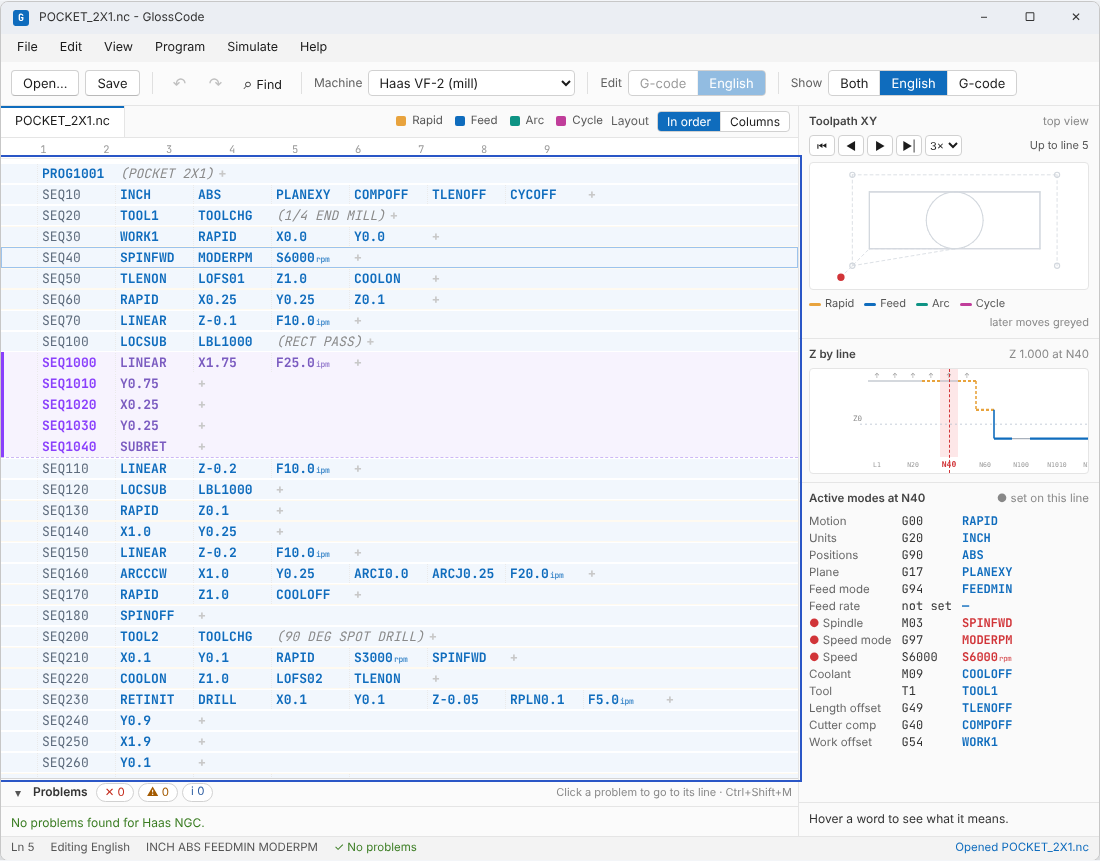
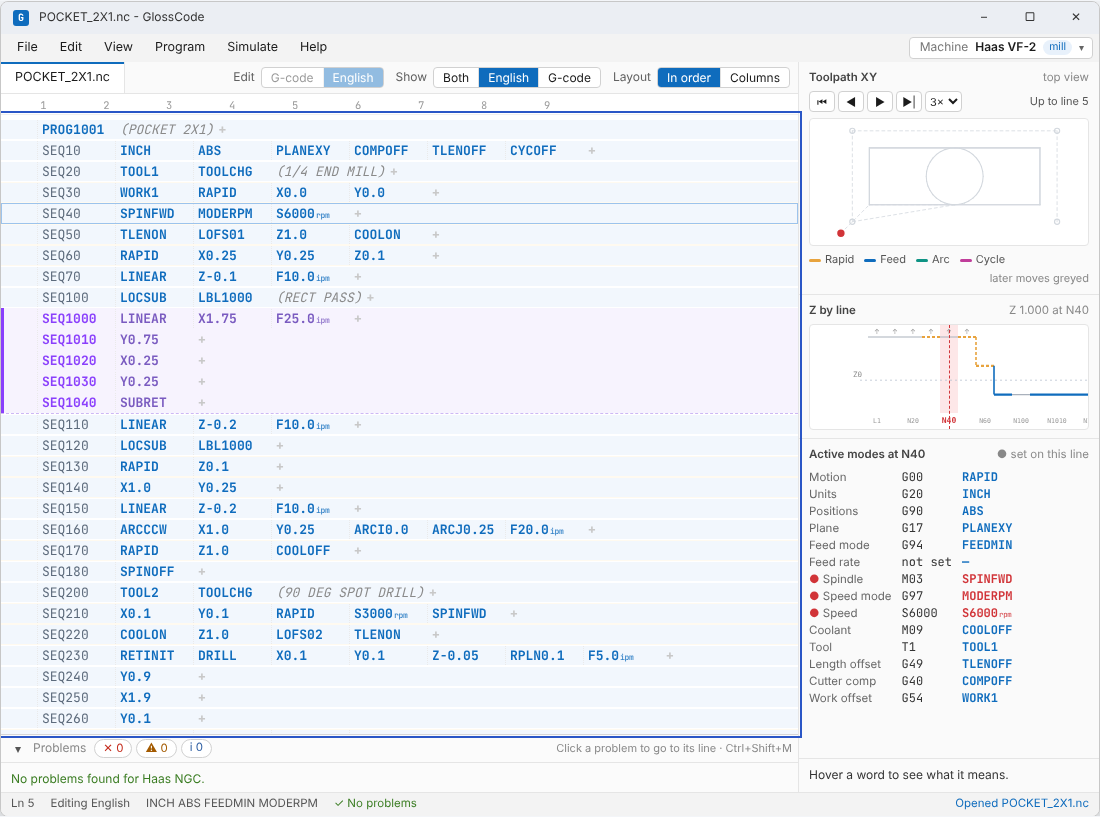
Retake the screenshots without the toolbar, and add machine picker shots
All ten README screenshots now show the current mockup: menus only,
the Edit/Show toggles in the tab row, and the machine picker in the
menu bar. Two new shots show the machine menu and the profiles dialog.

Claude-Session: https://claude.ai/code/session_01JRuiwy3MSKLR5SNq6VsEL3

diff --git a/README.md b/README.md
@@ -32,6 +32,10 @@ The English words come from a dictionary of consistent abbreviations ([`data/gco
 |---|---|---|
 | ![Problems panel](docs/images/problems.png) | ![Lathe checks](docs/images/lathe-checks.png) | ![Okuma mill](docs/images/okuma-mill.png) |
 
+| Machine picker | Machine profiles | Open dialog |
+|---|---|---|
+| ![Machine picker](docs/images/machine-menu.png) | ![Machine profiles](docs/images/machine-profiles.png) | ![Open dialog](docs/images/native-open-dialog.png) |
+
 ## Planned features
 
 **Editing**
